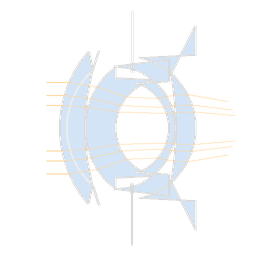
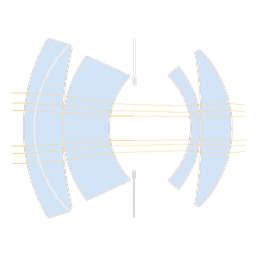
Fix Zeiss Planar aperture values and document diameter convention
PhotonsToPhotos data values are full diameters, not semi-diameters.
Doubling them created physically impossible surfaces.

Changed region(s): [[0.0312, 0.0938, 0.9688, 0.9688]]

diff --git a/CLAUDE.md b/CLAUDE.md
@@ -36,7 +36,7 @@ There are two main parts:
 ## Adding a New Lens
 
 1. Create a new `.toml` file in `addon/lenses/` following the existing format
-2. Surface data uses the PBRT convention: radii of curvature in mm, positive = center of curvature toward the sensor
+2. Surface data uses the PBRT convention: radii of curvature in mm, positive = center of curvature toward the sensor. The `aperture` field is the full clear diameter in mm (the shader computes semi-aperture as `aperture * 0.5`). Note: PhotonsToPhotos labels its column "semi_diameter" but the values are actually full diameters — use them directly
 3. The aperture stop surface must have `type = "stop"` (radius=0, ior=1.0). Exactly one stop per lens is required
 4. Lens files are loaded alphabetically — the filename determines the enum order in the UI
 5. Regenerate lens diagram PNGs: `uv run scripts/build_diagrams.py`

diff --git a/README.md b/README.md
@@ -53,6 +53,7 @@ Focus distance is controlled through Blender's standard camera Depth of Field se
 - Petzval 85mm f/2.4
 - Sonnar 50mm f/1.5
 - Tessar 50mm f/2.8
+- Zeiss Planar 80mm f/2.8 (medium format)
 - Zuiko 18mm f/3.5 (internal focusing)
 
 ## Adding a Lens
